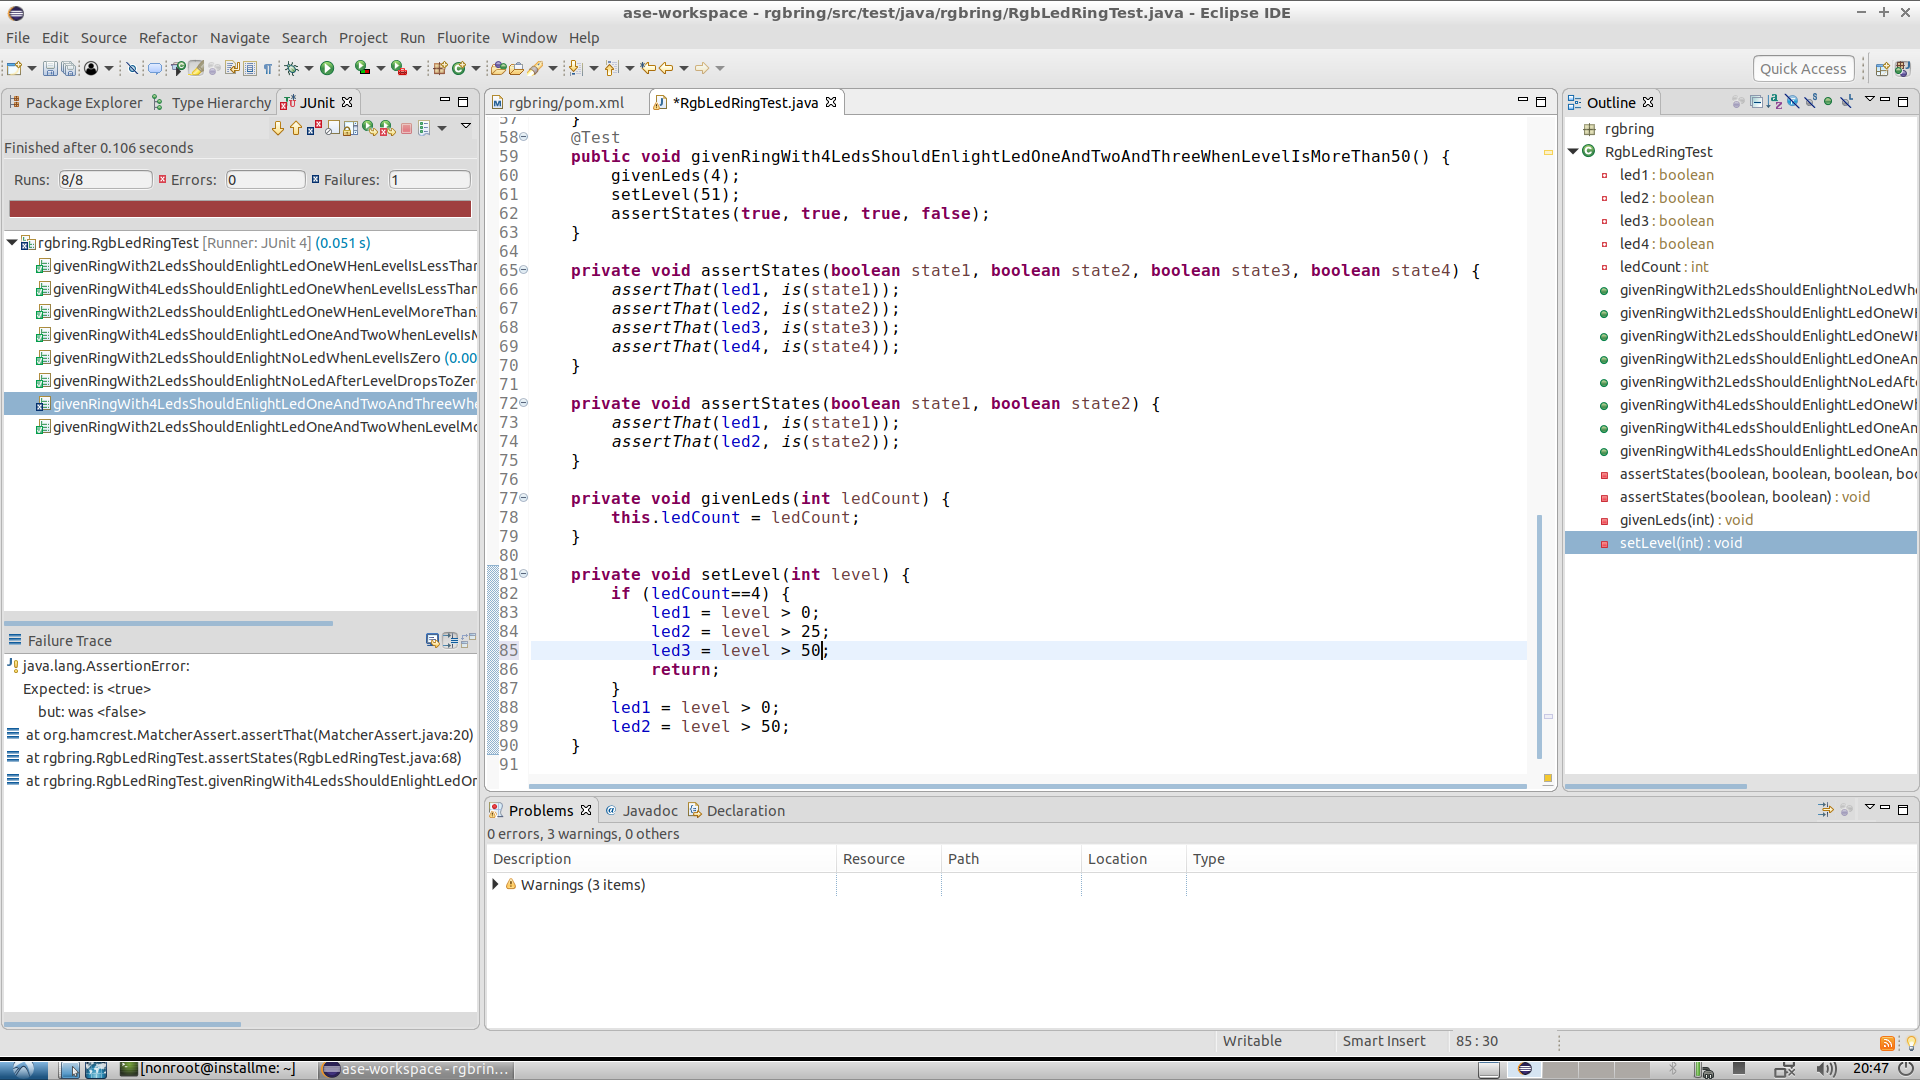
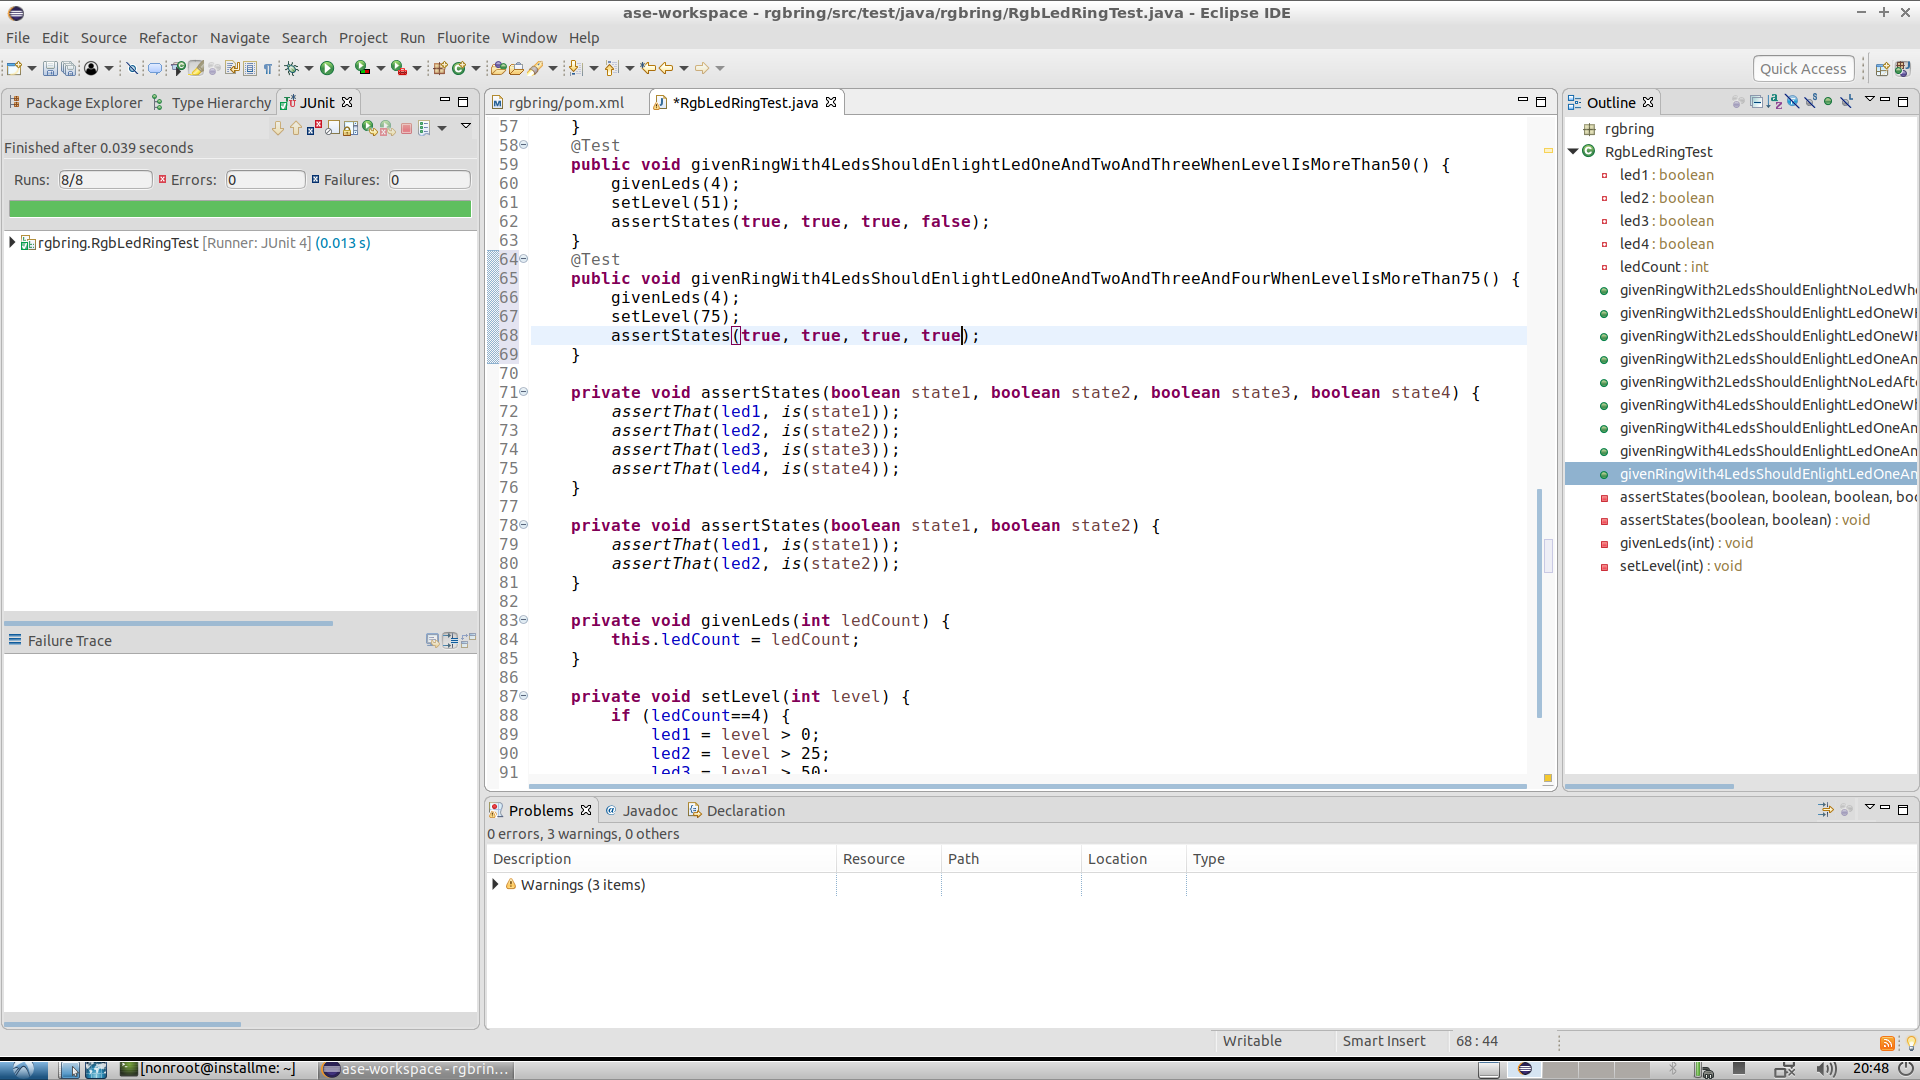
autocommit on change

diff --git a/src/test/java/rgbring/RgbLedRingTest.java b/src/test/java/rgbring/RgbLedRingTest.java
@@ -61,6 +61,12 @@ public class RgbLedRingTest {
 		setLevel(51);
 		assertStates(true, true, true, false);
 	}
+	@Test
+	public void givenRingWith4LedsShouldEnlightLedOneAndTwoAndThreeAndFourWhenLevelIsMoreThan75() {
+		givenLeds(4);
+		setLevel(75);
+		assertStates(true, true, true, true);
+	}
 
 	private void assertStates(boolean state1, boolean state2, boolean state3, boolean state4) {
 		assertThat(led1, is(state1));
